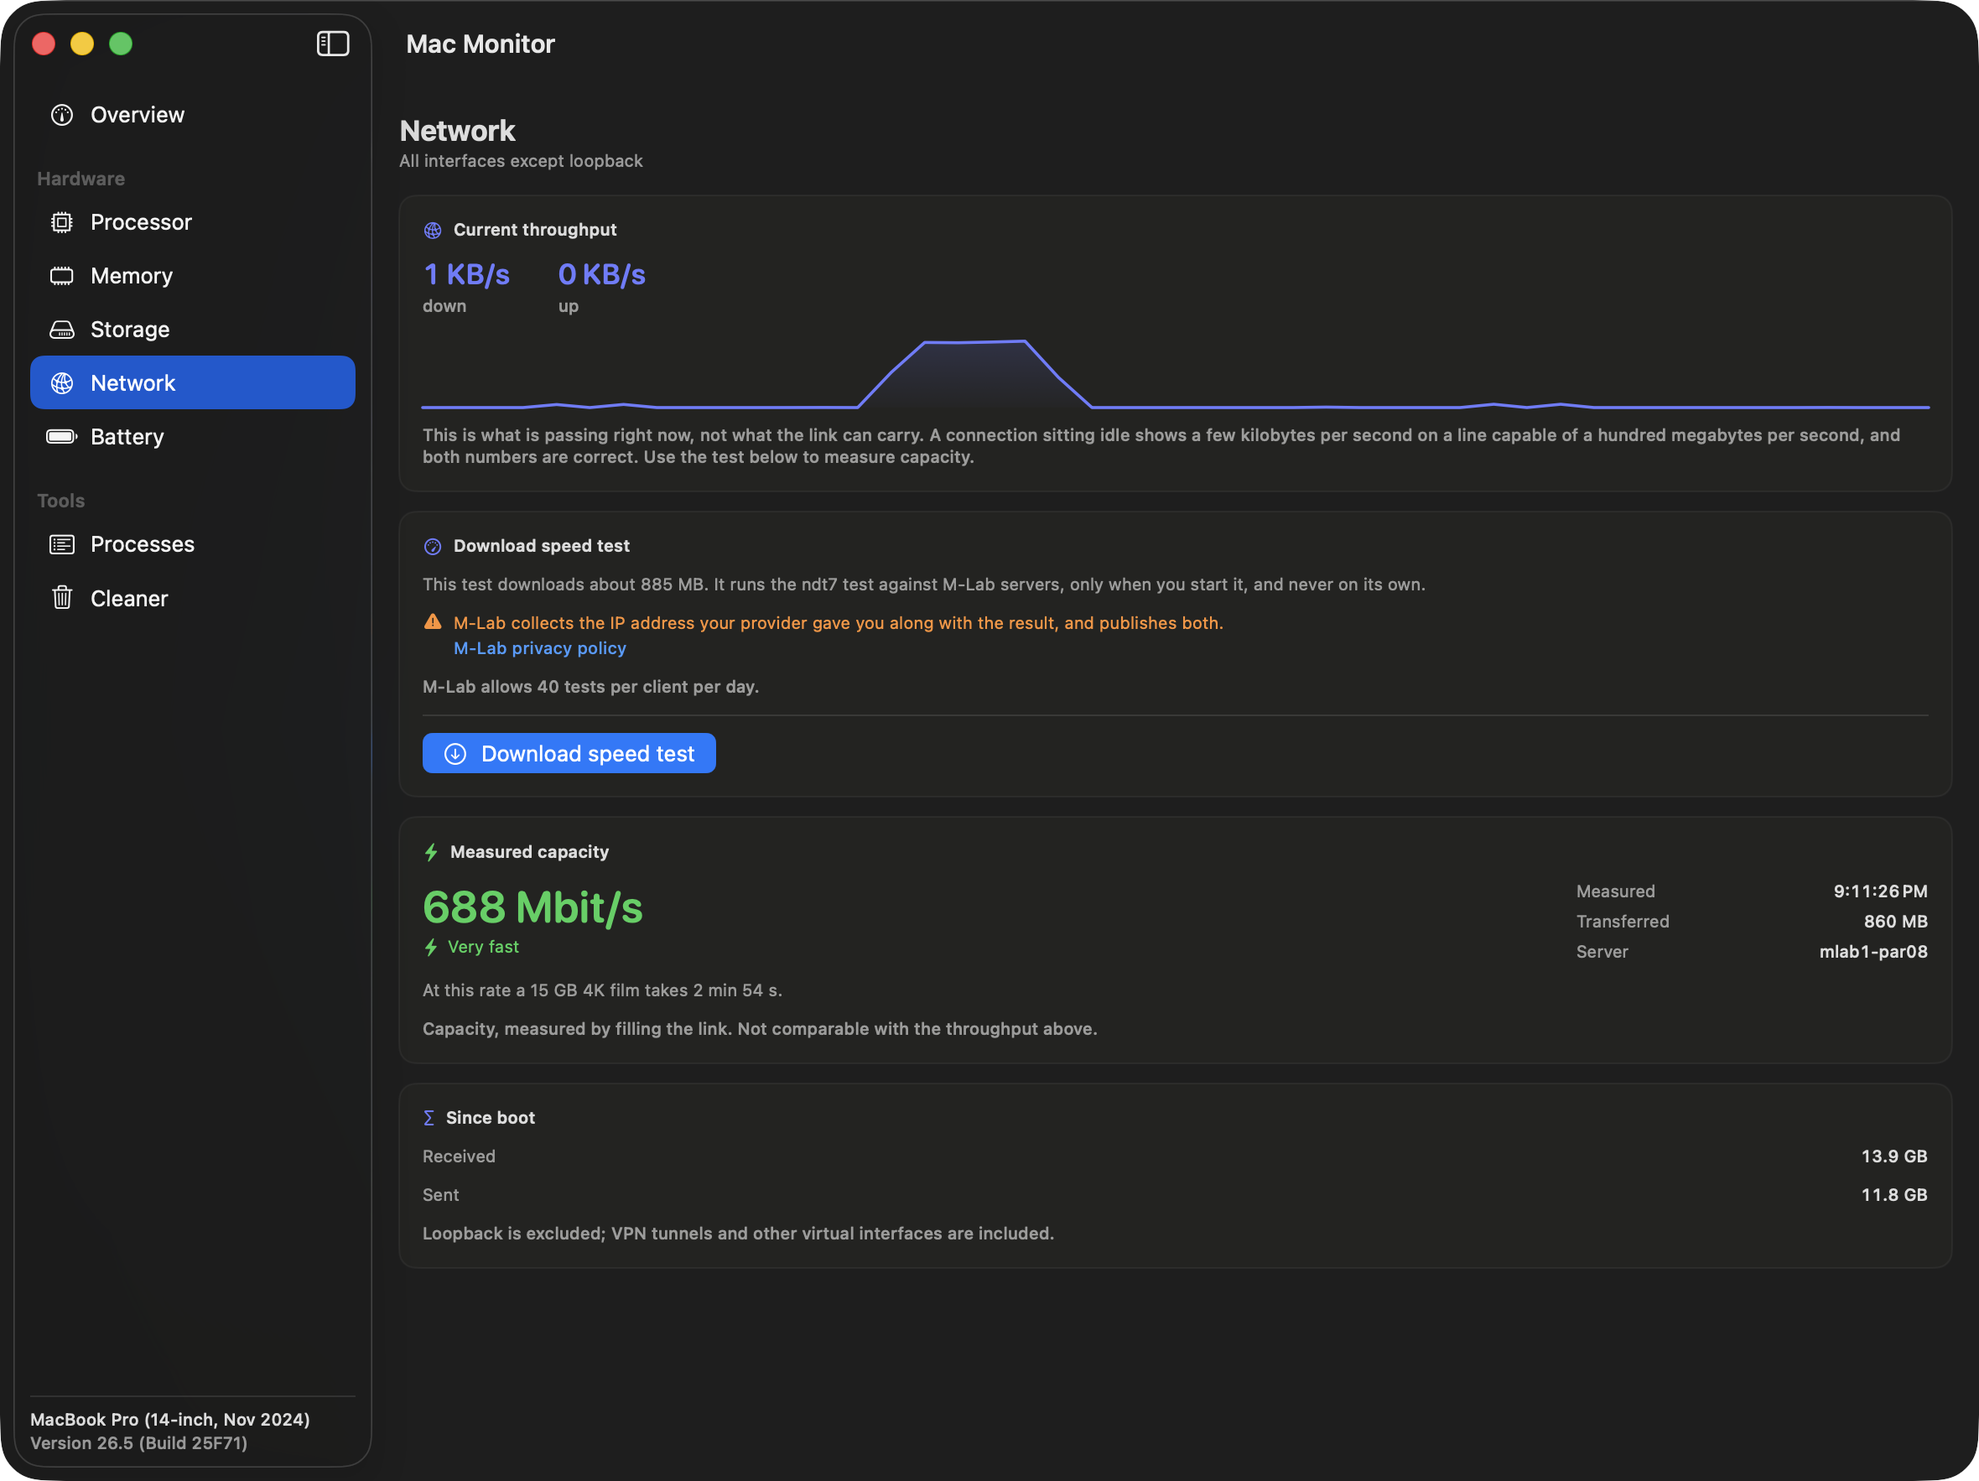
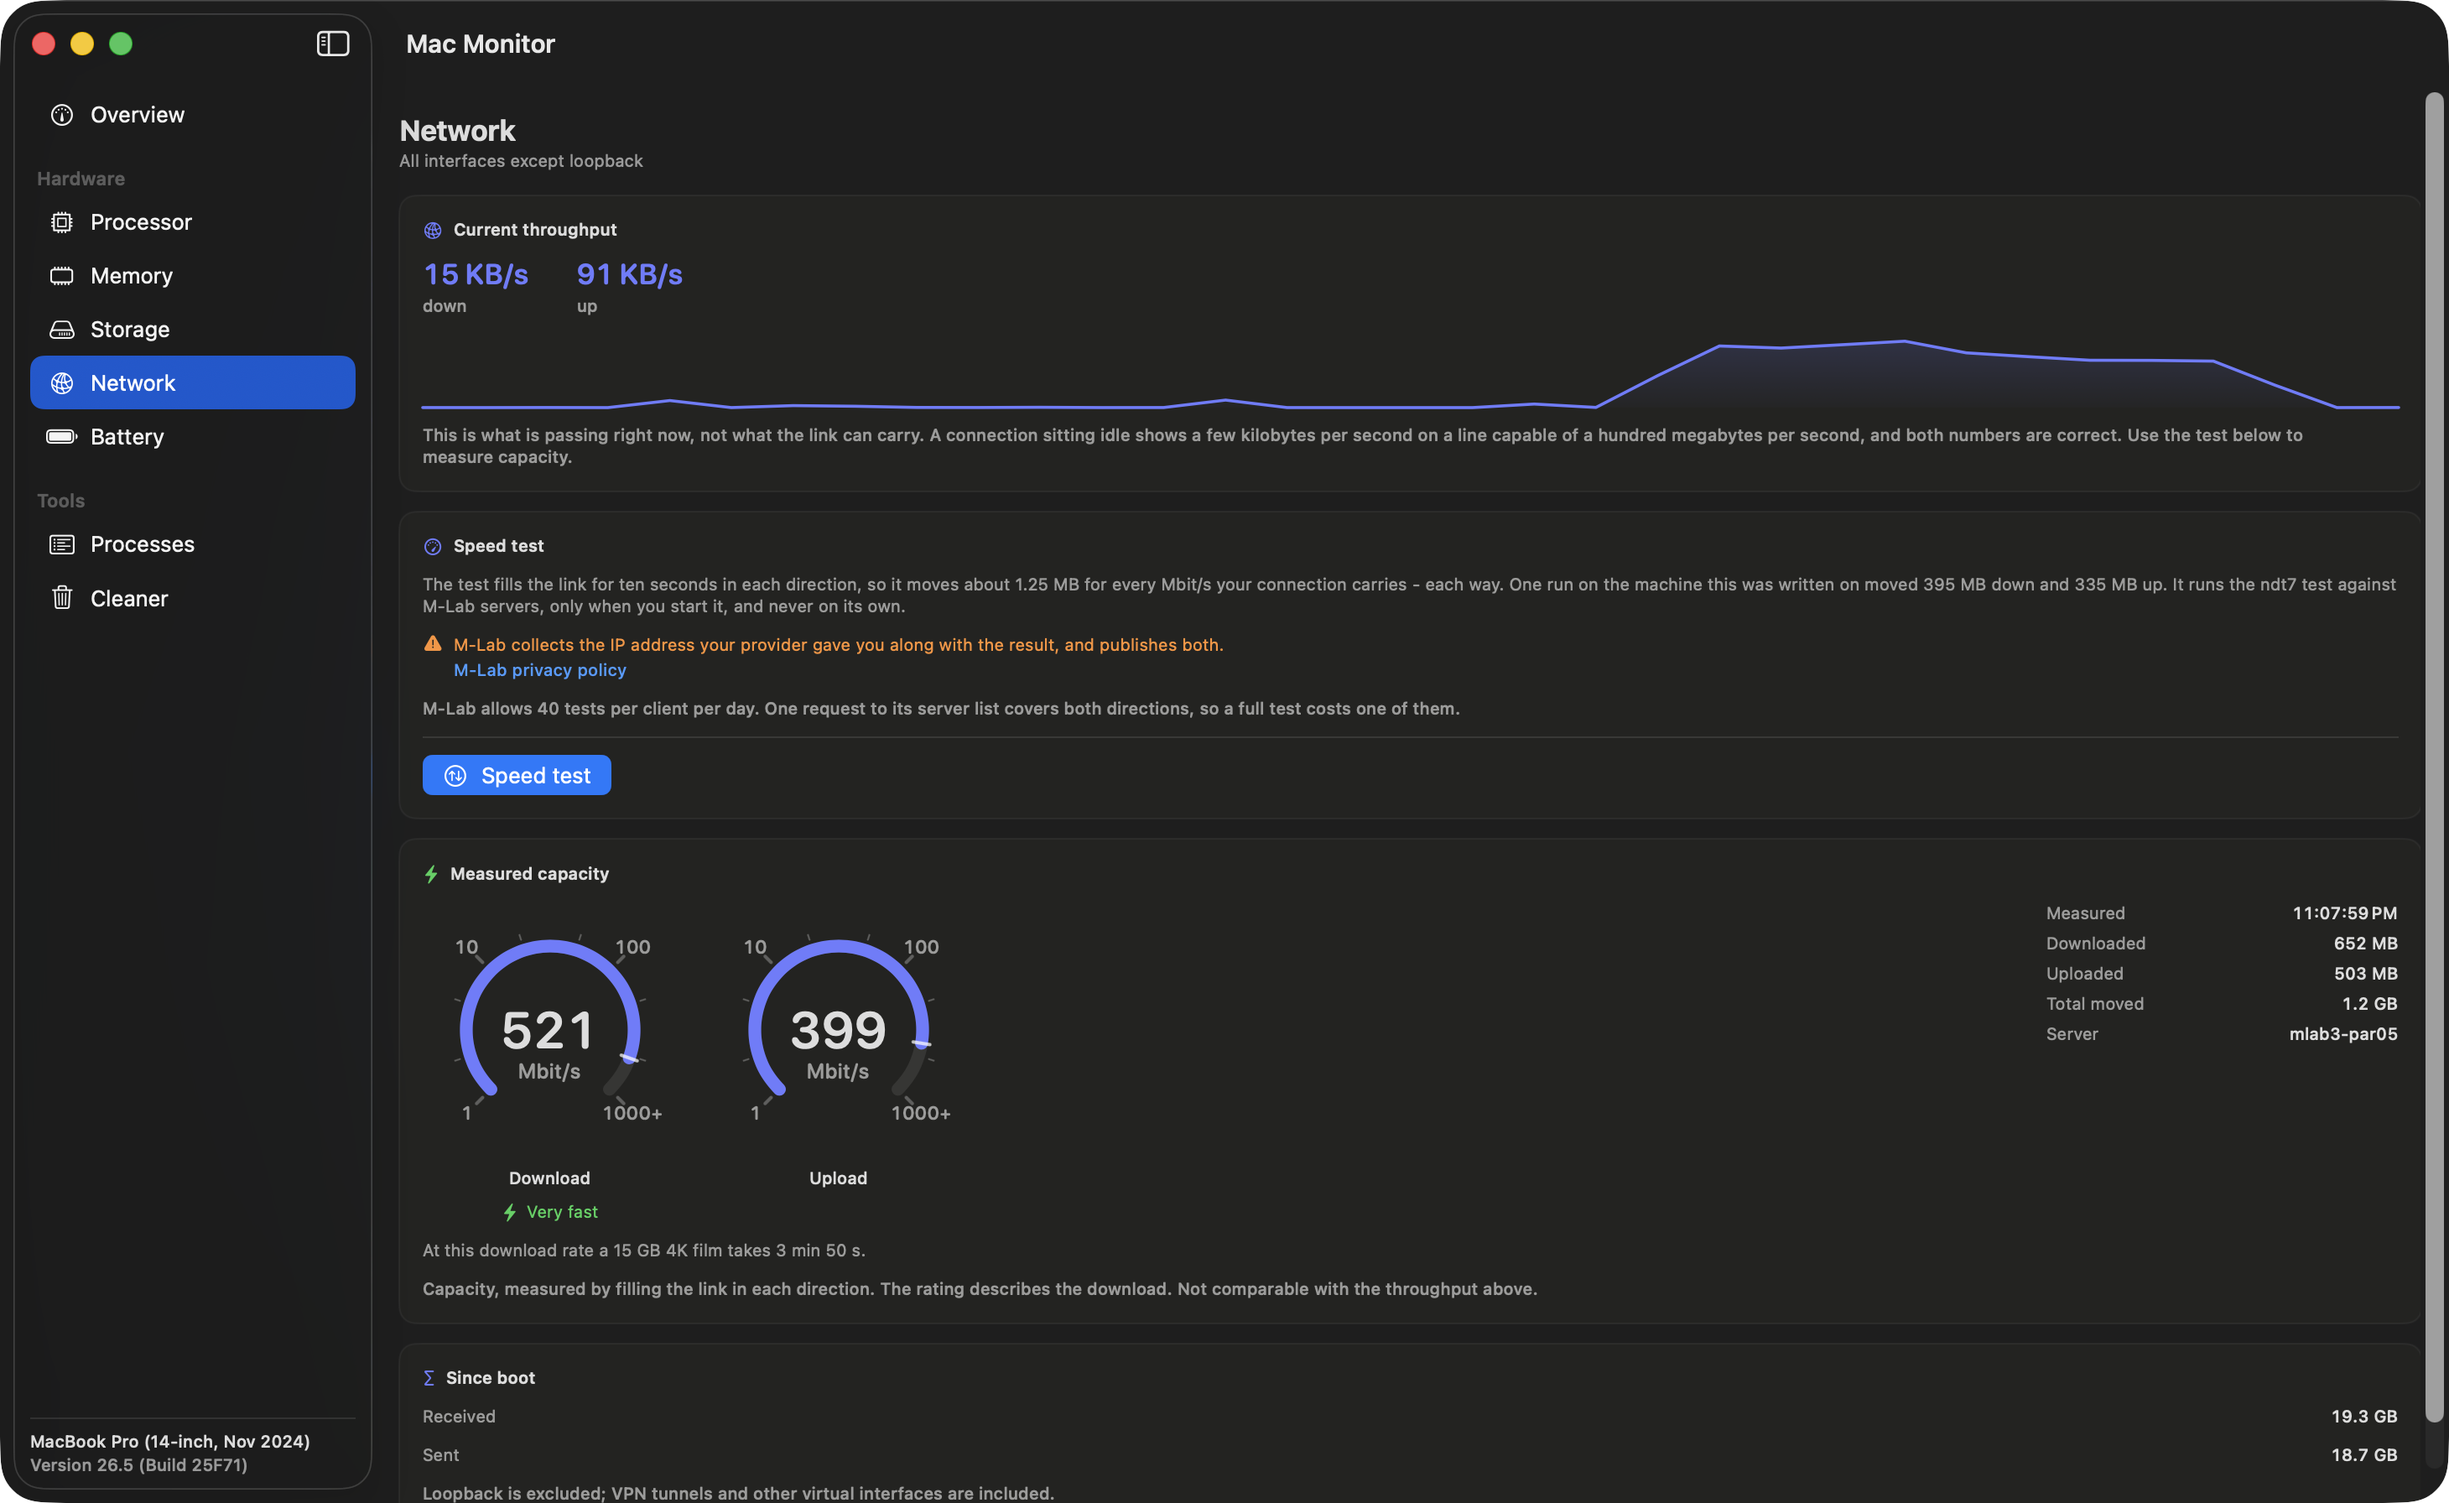
docs: retake the Network screenshots and rewrite what the test costs
The two Network images were of a download-only screen with a bare number on it.
Retaken with both dials and a real result: 521 Mbit/s down, 399 up, 652 MB and
503 MB moved, against mlab3-par05. One test run, captured in dark, then the system
appearance switched to light and captured again without leaving the screen, so both
images show the same measurement. The appearance was set back to automatic, which is
how this Mac has it.

Verification against the WINDOW and not the screen, as for the first set:

  screen                3024 x 1964 px
  window                1460 x  896 pt
  both PNGs             2920 x 1792 px   = window x2

Exactly twice the window in points, and strictly smaller than the screen. The window
is wider than the one used for the other six images, at 1460 points against 1180:
the screen has a card more on it now and at 1180 the totals at the bottom were cut
in half.

The README section on throughput and capacity was rewritten around what the test
actually costs. It said the test "will download about 885 MB", which was one machine
on one evening and would be wrong by an order of magnitude on a slower line. The
test fills the link for ten seconds each way, so it moves 1.25 MB for every Mbit/s
the link carries, and the ten runs measured are tabled against that rule.

Also new there: why one bidirectional test costs one of M-Lab's forty a day and
what part of that is inference rather than documentation, and why the dial is
[…]

diff --git a/README.md b/README.md
@@ -23,9 +23,9 @@ Dark: [Overview](docs/images/overview-dark.png) ·
 </details>
 
 Every reading in those is live, from this machine, at the moment of the capture. The
-Network screen shows a real ndt7 run against `mlab1-par08` — 688 Mbit/s, 860 MB
-transferred — beside a current throughput of 1 kB/s, which is the pair of numbers this
-README spends a section on.
+Network screen shows a real ndt7 run against `mlab3-par05` — 521 Mbit/s down and 399
+up, 1.2 GB moved — beside a current throughput of 13 kB/s, which is the pair of numbers
+this README spends a section on.
 
 ## What it measures
 
@@ -46,7 +46,7 @@ Processes and Cleaner. Every figure comes from the API named beside it.
 | Storage | used / free / total | `FileManager.attributesOfFileSystem` |
 | Storage | read and write activity | `IOBlockStorageDriver` → `Statistics`, as a delta |
 | Network | current throughput, totals since boot | `net.link.generic.ifdata.<index>.general`, all interfaces except loopback |
-| Network | measured capacity | ndt7 against M-Lab, on demand only |
+| Network | measured capacity, both directions | ndt7 against M-Lab, on demand only |
 | Battery | charge, time remaining | `IOPSCopyPowerSourcesList` |
 | Battery | cycles, temperature, power, full-charge capacity | `AppleSmartBattery` in the IORegistry |
 | Overview | machine name | `product-name` from `IODeviceTree:/product` |
@@ -130,12 +130,71 @@ per second. **Capacity** is what the link carries when something deliberately fi
 it, which is what a speed test measures. They live in separate cards, and the app
 never computes one from the other.
 
-The capacity test runs ndt7 against M-Lab servers, only when you press the button. It
-states before you press it that it will download about 885 MB, and that M-Lab collects
-the IP address your provider gave you along with the result and publishes both. On the
-M-Lab discussion list: *"Both speed.measurementlab.net and Google's Internet Speed Test
-integrate NDT."*
+The capacity test runs ndt7 against M-Lab servers, in both directions, only when you
+press the button. On the M-Lab discussion list: *"Both speed.measurementlab.net and
+Google's Internet Speed Test integrate NDT."*
 ([source](https://groups.google.com/a/measurementlab.net/g/discuss/c/iR4zO_rT4KE))
+
+### What it costs, and why the app will not name one number
+
+The test fills the link for ten seconds in each direction. That means what it moves is
+not a property of the test at all — it is whatever your connection can carry. Ten
+seconds at 1 Mbit/s is 1.25 MB, and it scales from there.
+
+The screen states that rule and one measured example rather than a single figure. It
+used to say "about 885 MB", which was true of one machine on one evening and would be
+wrong by an order of magnitude on a slower line. Every complete run measured while
+building this:
+
+| rate | moved | rule predicts |
+|---:|---:|---:|
+| 226 Mbit/s up | 285 MB | 283 MB |
+| 254 Mbit/s up | 318 MB | 318 MB |
+| 263 Mbit/s up | 335 MB | 329 MB |
+| 312 Mbit/s down | 390 MB | 390 MB |
+| 316 Mbit/s down | 395 MB | 395 MB |
+| 350 Mbit/s down | 437 MB | 438 MB |
+| 399 Mbit/s up | 503 MB | 499 MB |
+| 521 Mbit/s down | 652 MB | 652 MB |
+| 674 Mbit/s down | 885 MB | 843 MB |
+| 688 Mbit/s down | 860 MB | 860 MB |
+
+Every row lands within two per cent except the 674 Mbit/s one, which ran for ten and a
+half seconds rather than ten and moved five per cent more for it.
+
+The interface counters were read either side of one of those runs as an independent
+reference: they saw 708 MB in and 529 MB out where the app counted 652 and 503, which
+is 8.7 % and 5.2 % more. That is packet headers and the acknowledgements each direction
+sends back — and it is also the check that the upload payloads are not being compressed
+away, which is why they are random rather than zeroed.
+
+### One test or two, against M-Lab's forty a day
+
+M-Lab documents "a rate limit of 40 tests per client per day" and says a client that
+hits it is answered with an HTTP 204 No Content. A 204 is an HTTP status, and the only
+HTTP request in the whole flow is the one for the server list. That request returns
+`wss://` URLs for both directions carrying the same access token — compared character
+by character, identical — and that one token was observed opening a download connection
+followed by four separate upload connections, all accepted.
+
+So a complete test in both directions costs one of the forty. What is *not* established:
+M-Lab nowhere writes the sentence "a bidirectional test counts as one". The conclusion
+above is drawn from where the refusal is returned and from the token being reusable.
+
+### The dial
+
+The capacity reading sits on a logarithmic dial, base ten, three decades, 1 Mbit/s to
+1000. Linear would be unreadable: over the same 270 degrees of travel, 5 Mbit/s would
+sit 1.4 degrees from the stop and 20 Mbit/s 5.4 degrees, so every connection from
+unusable to decent would occupy the first tenth of the dial while the top half waited
+for speeds most people do not have. Logarithmically those two are 63 and 117 degrees,
+which is the difference between reading a dial and squinting at it.
+
+A link outside the scale pins the needle rather than running off the dial, and the exact
+figure is printed in the middle either way. The top tick is labelled `1000+` for that
+reason. The five-level rating underneath describes the **download**: its boundaries were
+chosen for one, and calling an ordinary 25 Mbit/s upstream "slow" is a judgement nothing
+here has earned.
 
 ## The page size trap
 
@@ -157,7 +216,7 @@ field is declared 64-bit.
 
 ## Architecture
 
-Three layers, 3,756 lines of Swift across 19 files, plus 4 test files.
+Three layers, 4,204 lines of Swift across 19 files, plus 4 test files.
 
 **Collection** reads the kernel and the IORegistry. One shell command remains, `ps`,
 because a non-privileged process cannot read another user's CPU time:
@@ -167,8 +226,8 @@ it was tested. `/bin/ps` manages it by being setuid root (`-rwsr-xr-x 1 root whe
 The reasoning sits next to the call.
 
 **Calculation** is pure functions over plain values — page conversion, tick deltas,
-uptime formatting, health thresholds, speed tiers, transfer estimates. No I/O, no
-shared state. This is where the measurement bugs lived, and it is what the tests
+uptime formatting, health thresholds, speed tiers, the logarithmic dial scale, transfer
+estimates. No I/O, no shared state. This is where the measurement bugs lived, and it is what the tests
 cover.
 
 **Views** are SwiftUI, one file per screen, over a shared design system that holds
@@ -178,7 +237,7 @@ first commit, "the disk is filling up" meant 60 %, 80 %, 85 %, 90 %, "under 20 G
 
 ## Tests
 
-52 tests, on the calculation layer and the remaining parsers.
+64 tests, on the calculation layer and the remaining parsers.
 
 Each one is derived from the observed defect and the expected behaviour rather than
 from reading the fix — a test written by reading the implementation mostly proves the
